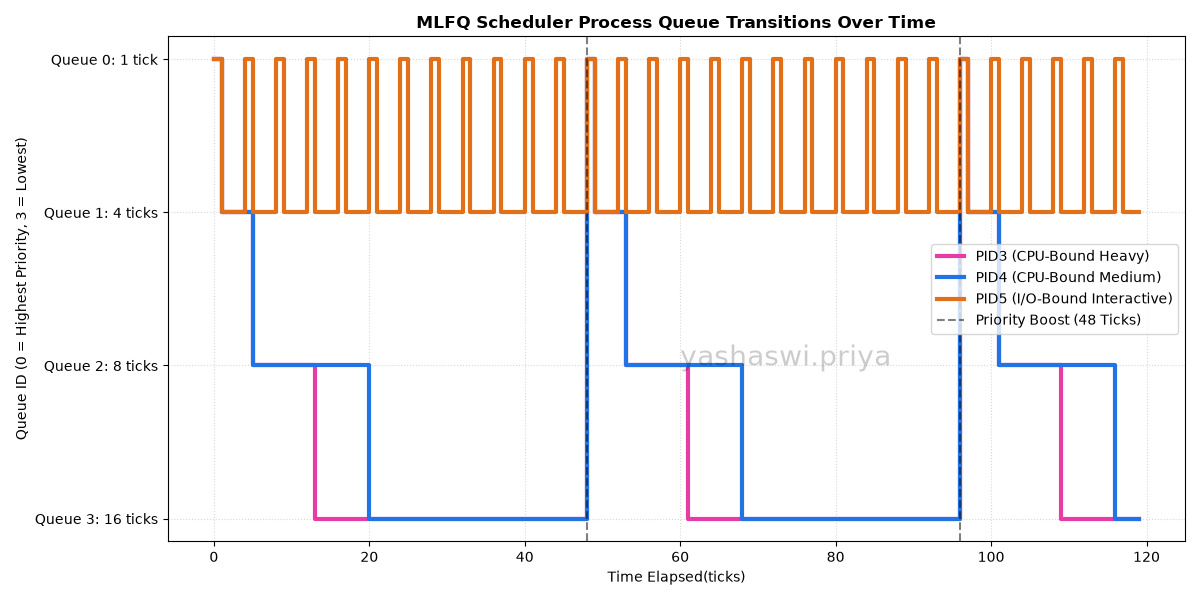
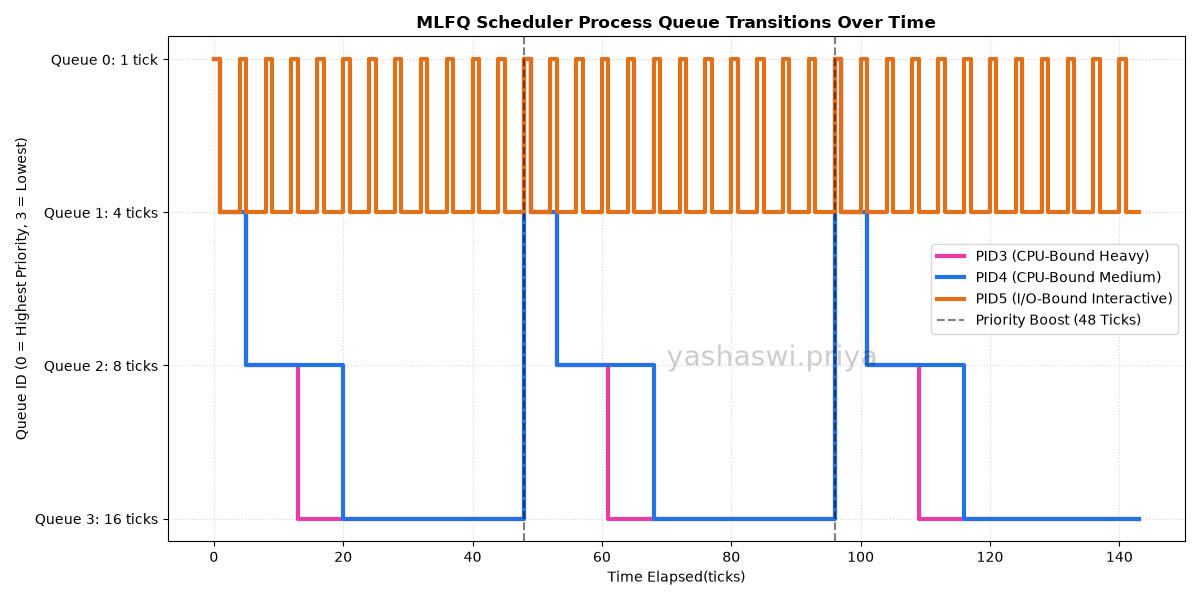
report.md 2.3.2 done

diff --git a/xv6/plt_schedtest.py b/xv6/plt_schedtest.py
@@ -2,8 +2,8 @@ import matplotlib.pyplot as plt
 import numpy as np 
 
 plt.figure(figsize=(12, 6))
-# ticks timeline (0-120 ticks)
-ticks = np.arange(0, 120, 1) # time array from 0 to 119
+# ticks timeline (0-144 ticks)
+ticks = np.arange(0, 144, 1) # time array from 0 to 143
 
 # simulate 3 processes moving through MLFQ queues
 # pid3: heavy cpu process
@@ -60,7 +60,7 @@ plt.grid(True, linestyle=':', alpha=0.5) # turn on dot matrix gridd
 plt.legend(loc='right') # legend
 
 # watermark
-plt.text(60, 2, 'yashaswi.priya', fontsize=20, color='black', alpha=0.2)
+plt.text(70, 2, 'yashaswi.priya', fontsize=20, color='black', alpha=0.2)
 
 plt.tight_layout() # fix spacng 
 plt.savefig('mlfq_timeline.png', dpi=100)

diff --git a/xv6/report.md b/xv6/report.md
@@ -79,3 +79,11 @@ schedtest tests how scheduler peforms under
 1. Heavy computational load  
 2. IO bound processes  
 
+pid 5 (orange) : this is the io bound interactie process. It runs only for a sgort period before stopping to yield to wait for input. Since it gives cpu back so frequently and beofre a time slice completes, its priority remains high (0 and 1), as the tick counter us constantly reset to 0.  
+
+pid 4 (blue) : this finishes its allocated ticks and gets down on the q. But the shift from q2 to q3 is at 20 not 13 to simulate a yield for io. So, it sits in q2 for longer, before getting demoted to q3. THis is medium cpu bound.  
+
+pid 3 (pink) : this is a heavily cpu bound process, and drops to last priority at 13 secs (1+4+8), as it never yields control for sleep or io.  
+
+boost: the global prioirty boost occurs at every 48 seconds. proc 5 isnt much affected by it, because the use of a priority boost is to make sure cpu bound tasks are not starved for execution time. So, at 48 and 96, all processes are returned to priority 0, which helps prevent starvaion of pid 4 and pid 3.
+
